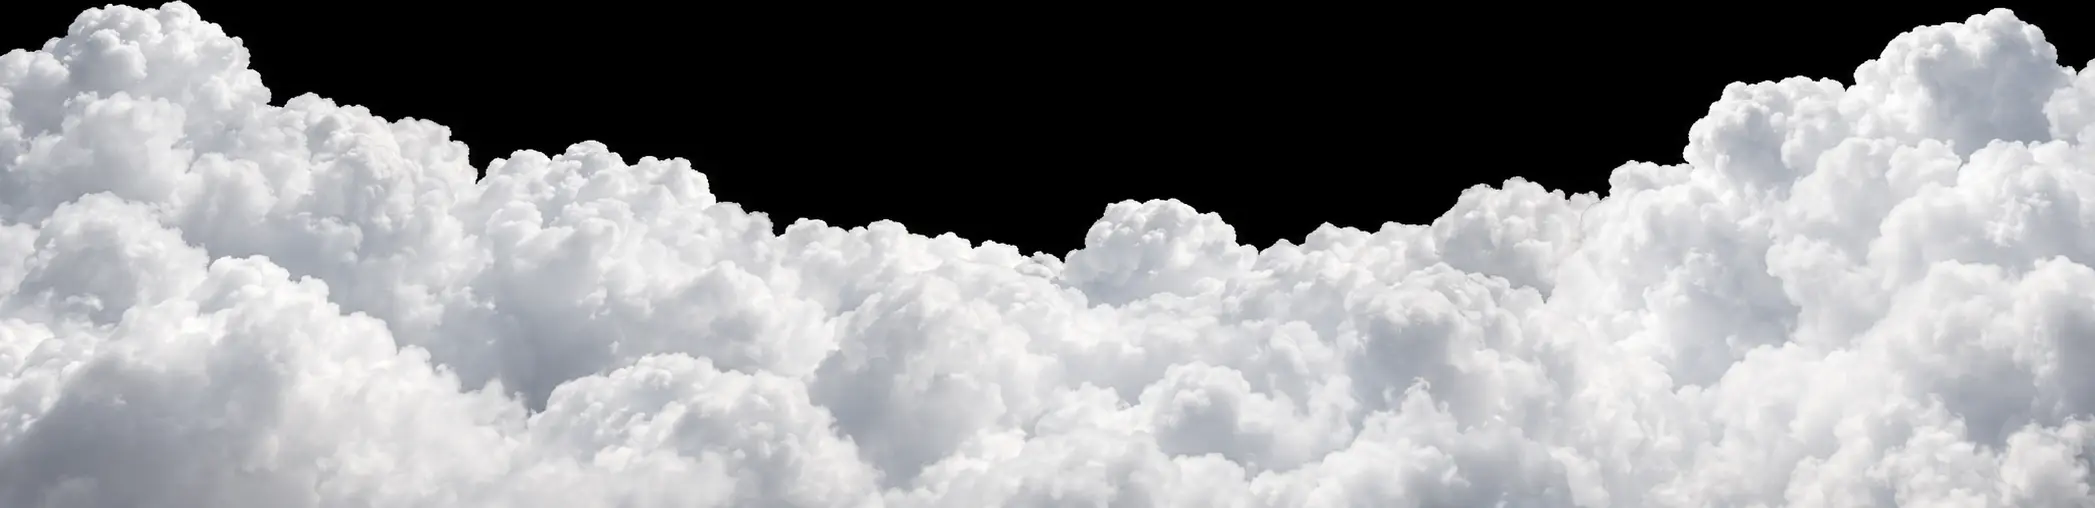
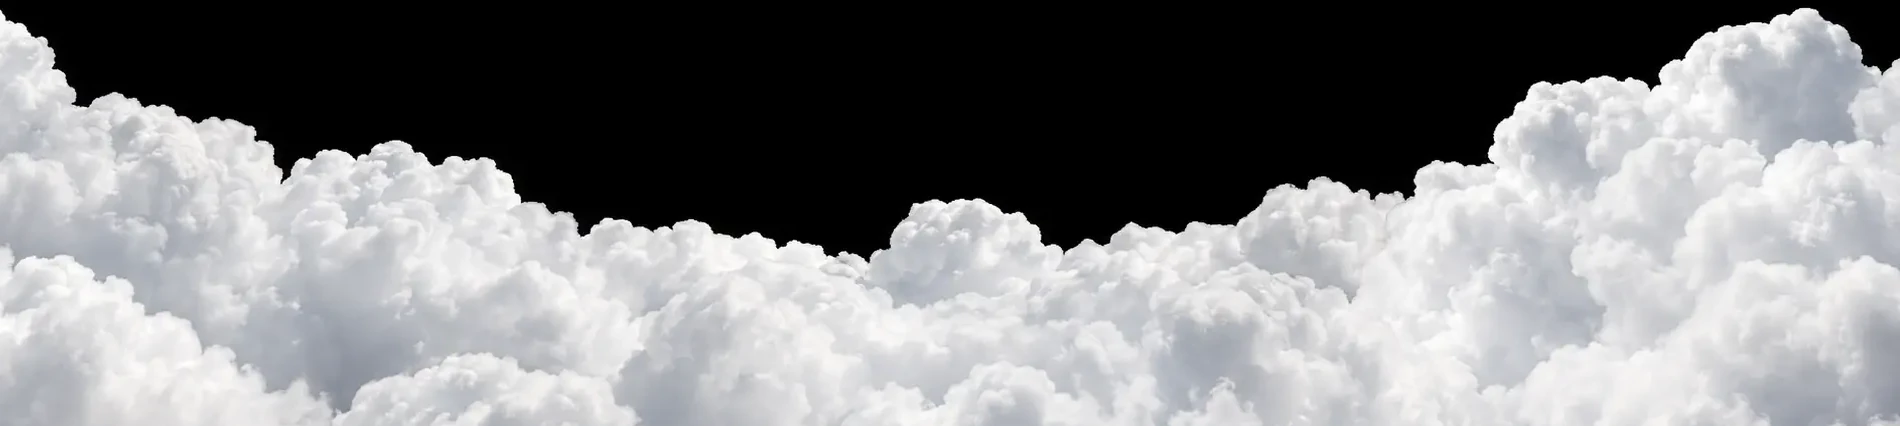
maek spinner and clouds cooler!!!

diff --git a/src/App.vue b/src/App.vue
@@ -21,15 +21,18 @@
 
 			<p class="url">
 				<span class="url-part">https://</span>
-				<span>
-					<span class="reel" aria-hidden="true">
-						<span v-for="site in sites">{{site}}</span>
-						<span>{{sites[0]}}</span>
+				<span class="domain">
+					<span class="reel-container">
+						<span class="reel" aria-hidden="true">
+							<span v-for="site in sites">{{site}}</span>
+							<span>{{sites[0]}}</span>
+						</span>
 					</span>
 
 					<span class="sr-only">{{sites[0]}}</span>
 				</span>
-				<span class="url-part">/iu94IKgA1w.mp4</span>
+				 <span class="url-part">/iu94IKgA1w.mp4</span>
+				 <!-- <span class="url-part">ÁÂgjpqy_,;</span> -->
 			</p>
 
 			<div class="drop-hint js-required">
@@ -37,11 +40,11 @@
 				<p class="dh-sub">Or paste a screenshot. You'll get a link as soon as it's up.</p>
 			</div>
 
-			<a href="/auth">Open the dashboard</a>
+			 <!-- <a href="/auth">Open the dashboard</a> -->
 			<p>Anyone can sign up, host any file, then share it from whichever of our domains you like.</p>
 		</section>
 
-		 <img class="bank" aria-hidden="true" src="@/assets/images/bank.webp" alt="" decoding="async"/>
+		 <img class="bank" aria-hidden="true" src="@/assets/images/bank2.webp" alt="" decoding="async"/>
 		<div class="bank-fade" aria-hidden="true"></div>
 	</div>
 
@@ -107,7 +110,37 @@
 			/>
 			Dark mode
 		</label>
+		<div
+			@input="($event) => {
+				const controls = $event.currentTarget as HTMLDivElement;
+				const reel = controls.ownerDocument.querySelector('.reel') as (HTMLElement & { originalReelNodes?: Node[] }) | null;
+				if (!reel) return;
+				const enabled = controls.querySelector('input[type=checkbox]') as HTMLInputElement;
+				const text = controls.querySelector('input[type=text]') as HTMLInputElement;
+				if (enabled.checked) {
+					if (!reel.originalReelNodes) reel.originalReelNodes = Array.from(reel.childNodes);
+					reel.replaceChildren(...Array.from({ length: 7 }, () => {
+						const span = reel.ownerDocument.createElement('span');
+						span.textContent = text.value;
+						return span;
+					}));
+				} else if (reel.originalReelNodes) {
+					reel.replaceChildren(...reel.originalReelNodes);
+					delete reel.originalReelNodes;
+				}
+			}"
+		>
+			<label>
+				<input type="checkbox" />
+				Override URL reel
+			</label>
+			<label>
+				Reel text
+				<input type="text" :value="sites[0]" />
+			</label>
+		</div>
 	</fieldset>
+
 
 </template>
 
@@ -119,11 +152,13 @@
 
 	html {
 		/* Wider than the viewport (cropping the tall side peaks) until 1800px (112.5rem), then 100vw */
-		--bank-width: clamp(45rem, 130vw, max(112.5rem, 100vw));
+		--bank-width: clamp(45rem, 180vw, max(2400px, 100vw));
 		/* Exact rendered height of bank-1.webp */
-		--bank: calc(var(--bank-width) * 509 / 2048);
+		--bank: calc(var(--bank-width) * 426 / 2095);
 		/* Percent that the bank should be shifted up */
 		--bank-shift-up: 0.75;
+
+		--cloud-cover: min(calc(var(--bank) * var(--bank-shift-up)), 18rem);
 	}
 
 	/* light mode */
@@ -240,8 +275,8 @@
 		background: var(--look-sky);
 		color: var(--look-sky-text);
 		position: relative;
-		overflow-x: clip;
-		padding-bottom: calc(var(--bank) * var(--bank-shift-up) + 0.75rem);
+		overflow: clip;
+		padding-bottom: calc(var(--cloud-cover) + 0.75rem);
 	}
 
 	.hero-content {
@@ -284,7 +319,7 @@
 	}
 
 	.hero-content h1 {
-		font-size: clamp(1.6rem, 3vw, 2.4rem);
+		font-size: clamp(1.6rem, 3vw, 1.9rem);
 		font-weight: 700;
 		line-height: 1.15;
 		max-width: 22ch;
@@ -292,23 +327,45 @@
 
 	.url {
 		font-family: "JetBrains Mono", ui-monospace, monospace;
+		user-select: none;
 
-		font-size: clamp(1.9rem, 8.2vw, 7rem);
-		line-height: 1.1;
+		font-size: clamp(1.9rem, 7.2vw, 6.5rem);
+		line-height: 1.05;
 		font-weight: 700;
 		letter-spacing: -0.03em;
 		margin: clamp(20px, 3vw, 36px) 0 28px;
 	}
 
 	.url > span {
-		user-select: none;
 		display: block;
-		overflow: hidden;
-		height: 1.05em;
+		/*overflow: hidden;*/
+		height: 1lh;
 	}
 
 	.url-part {
 		color: var(--look-sky-text-light);
+	}
+
+	.domain {
+		position: relative;
+		/*overflow: hidden;*/
+	}
+
+	.reel-container {
+		position: absolute;
+		top: -0.1em;
+		left: 0;
+		bottom: -0.2em;
+		/*inset-inline: 0;*/
+		/*inset-block: -0.1em 0.2em;*/
+		padding-block: 0.1em 0.2em;
+		mask-image: linear-gradient(
+			to bottom,
+			transparent 0%,
+			black 4%,
+			black 96%,
+			transparent 100%
+		);
 	}
 
 	.reel {
@@ -318,7 +375,11 @@
 
 	.reel span {
 		display: block;
-		height: 1.1em;
+		height: 1.3em;
+		text-overflow: ellipsis;
+		overflow: hidden;
+    white-space: nowrap;
+    max-width: 19ch;
 	}
 
 	.drop-hint {
@@ -328,7 +389,7 @@
 	.bank {
 		position: absolute;
 		left: calc((100% - var(--bank-width)) / 2);
-		bottom: -1px;
+		bottom: calc(var(--cloud-cover) - var(--bank) * var(--bank-shift-up) - 1px);
 		z-index: 1;
 		width: var(--bank-width);
 		height: auto;
@@ -340,10 +401,9 @@
 
 	.bank-fade {
 	  position: absolute; left: 0; right: 0; bottom: -1px; z-index: 1;
-	  height: calc(var(--bank) * .35);
+	  height: calc(var(--cloud-cover) * .35);
 	  background: linear-gradient(transparent, var(--look-page));
 	}
-
 
 	.features {
 		background: var(--look-page);
@@ -373,12 +433,12 @@
 
   @keyframes roll {
     0%, 14%    { transform: translateY(0); }
-    16.6%, 30% { transform: translateY(-1.1em); }
-    33.3%, 47% { transform: translateY(-2.2em); }
-    50%, 63%   { transform: translateY(-3.3em); }
-    66.6%, 80% { transform: translateY(-4.4em); }
-    83.3%, 97% { transform: translateY(-5.5em); }
-    100%       { transform: translateY(-6.6em); }
+    16.6%, 30% { transform: translateY(-1.3em); }
+    33.3%, 47% { transform: translateY(-2.6em); }
+    50%, 63%   { transform: translateY(-3.9em); }
+    66.6%, 80% { transform: translateY(-5.2em); }
+    83.3%, 97% { transform: translateY(-6.5em); }
+    100%       { transform: translateY(-7.8em); }
   }
 
 	.sr-only {

diff --git a/index.html b/index.html
@@ -1,8 +1,11 @@
 <!doctype html>
 <html lang="en" class="no-theme">
   <head>
+  	<link rel="preconnect" href="https://fonts.googleapis.com">
+	  <link rel="preconnect" href="https://fonts.gstatic.com" crossorigin>
     <meta charset="UTF-8" />
     <meta name="viewport" content="width=device-width, initial-scale=1.0" />
+    <link href="https://fonts.googleapis.com/css2?family=Bricolage+Grotesque:opsz,wght@12..96,400..800&family=JetBrains+Mono:wght@500;700&display=swap" rel="stylesheet">
     <title>Cumulonimbus</title>
     <meta name="title" content="Cumulonimbus" />
     <meta name="og:title" content="Cumulonimbus" />
